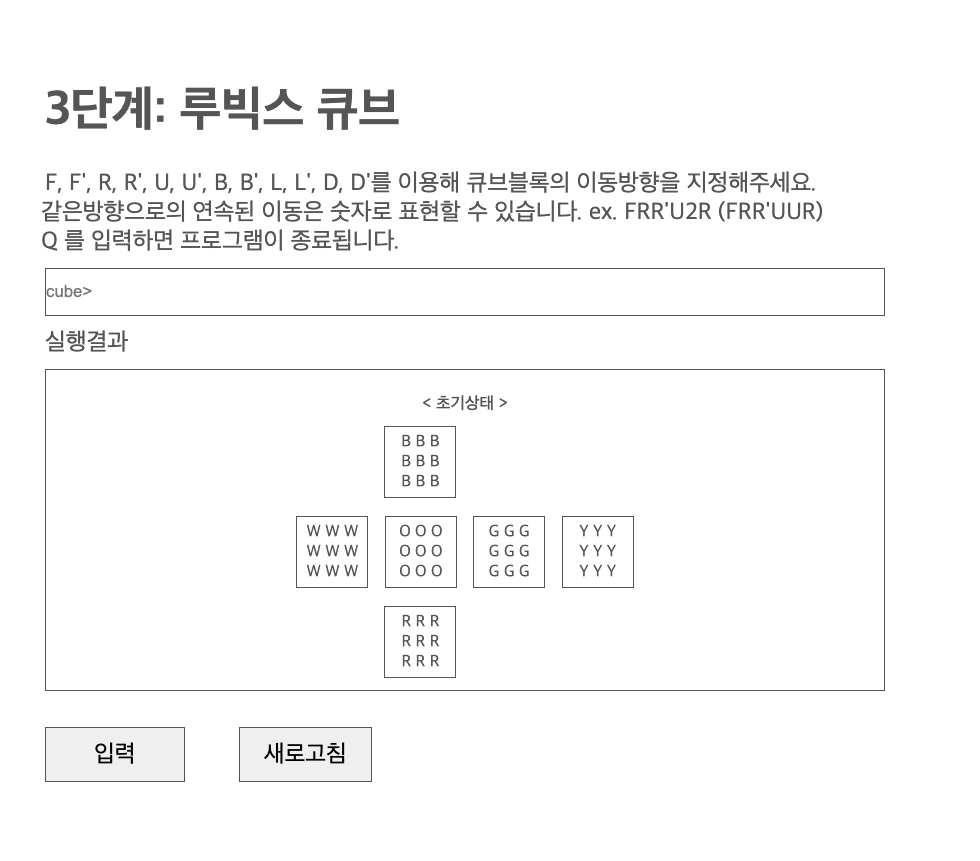
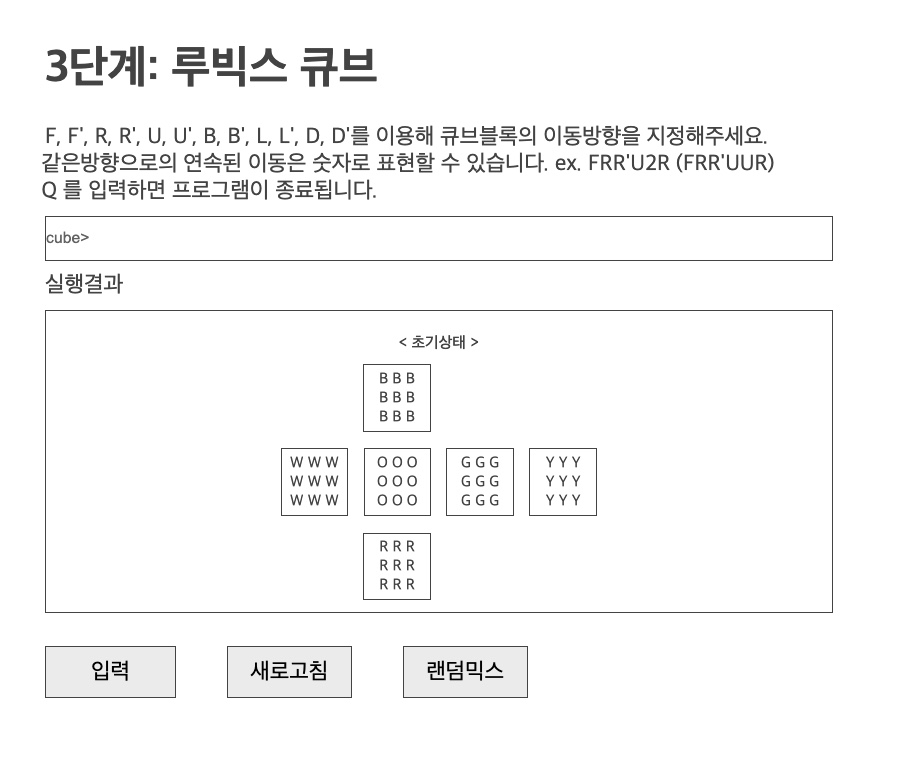
Feature additional action
- Add 'random mix' button.
- Show randomly arranged elements on button click.
- Add description on README.md.

diff --git a/index-3.js b/index-3.js
@@ -2,7 +2,7 @@
 
 *추가구현*
 [O] 프로그램 종료 시 경과 시간 출력
-큐브의 무작위 섞기 기능
+[O] 큐브의 무작위 섞기 기능
 모든 면을 맞추면 축하 메시지와 함께 프로그램을 자동 종료
 */
 
@@ -10,8 +10,10 @@
 class Data {
     constructor(){
 
+        this.origin_arr;
         this.triple_arr = [];
         this.keys = []; //["U", "L", "F", "R", "B", "D"]
+        this.randomKeys = ["U", "L", "F", "R", "B", "D", "U'", "L'", "F'", "R'", "B'", "D'"];
         this.playingTime = 0;
         this.cube = {
             "U": Array(3).fill(0).map(el => Array(3).fill("B")),
@@ -37,6 +39,21 @@ class Data {
         this.keys.forEach(key => {
             this.triple_arr.push(this.cube[key]);
         })
+        //시작 상태의 원본배열 복사해두기
+        this.origin_arr = JSON.parse(JSON.stringify(this.triple_arr));
+    }
+
+    makeRandomArr(){//0에서 11사이의 랜덤 숫자를 받아서 인덱스로 처리(랜덤믹스에 사용)
+        const keysArr = [];
+
+        for (let i = 0; i < 5; i++){
+            keysArr.push(this.randomKeys[this.getRandomNum(0, 11)]);
+        }
+        return keysArr;
+    }
+
+    getRandomNum (min, max) {
+        return Math.floor(Math.random() * (max - min + 1)) + min;
     }
 
     //(회전을 위한)임시 배열 만들기
@@ -115,7 +132,6 @@ class Data {
 //-------------------------------------------- Rotation클래스의 역할: 큐브의 회전과 엘리먼트의 이동 ---------------------------------------------------------
 class Rotation {
 
-    //임시배열들을 오른쪽으로 밀기
     pushElementToRight(arr){
         const poppedElement = arr.pop();
         arr.unshift(poppedElement);
@@ -128,7 +144,6 @@ class Rotation {
         return arr;
     }
 
-    //시계방향으로 90도 회전
     turnSideClockwise(side){
         for (let i = 0; i < side.length; i++) {
             for (let j = 0; j < i; j++) {
@@ -139,7 +154,6 @@ class Rotation {
         return side;
     }
 
-    //시계반대방향으로 90도 회전
     turnSideCounterClockwise(side){
         side.forEach((row) => row.reverse());
         for (let i = 0; i < side.length; i++) {
@@ -198,7 +212,7 @@ class Visual {
             </div>
             <div id="D" class="box">${this.makeSquareShapeTemplate(trpleArr[5])}</div>`;
         }
-        this.renderTemplate(template);
+        return template;
     }
 
 
@@ -238,10 +252,13 @@ class Operator {
     }
 
     addEvent(){
-        const enterButton = document.querySelector(".step3-answer-button");
-        const refreshBtn = document.querySelector(".step3-refresh");
+        const enterButton = this.visual._(".step3-answer-button");
+        const refreshBtn = this.visual._(".step3-refresh");
+        const mixButton = this.visual._(".step3-mix");
+
         enterButton.addEventListener("click", this.executeClickEvent.bind(this));
         refreshBtn.addEventListener("click", this.reload);
+        mixButton.addEventListener("click", this.mixArray.bind(this));
     }
 
     executeClickEvent(){
@@ -249,14 +266,16 @@ class Operator {
         const convertedString = this.data.breakdownInputString(this.visual.readInputData());
         convertedString.forEach(type => {
             const arrIdx = this.data.orderType[type[0]];
+            let template;
             if (type === "Q") {
                 this.visual.makeChildDiv(type, this.data.triple_arr, this.data.convertPlayingTimeToString());
                 return;
             }  else if (type[1] === "'") {
-                this.rotateCounterClockwise(arrIdx, type);
+                template = this.rotateCounterClockwise(arrIdx, type);
+                this.visual.renderTemplate(template);
             } else {
-                this.rotateClockwise(arrIdx, type);
-
+                template = this.rotateClockwise(arrIdx, type);
+                this.visual.renderTemplate(template);
             }
         })
     }
@@ -270,7 +289,7 @@ class Operator {
         }
         this.data.reassignEl(arrIdx, tempArr);
         this.rotate.turnSideClockwise(this.data.triple_arr[triArrIdx]);
-        this.visual.makeChildDiv(type, this.data.triple_arr);
+        return this.visual.makeChildDiv(type, this.data.triple_arr);
     }
 
     rotateCounterClockwise(arrIdx, type){
@@ -282,7 +301,20 @@ class Operator {
         }
         this.data.reassignEl(arrIdx, tempArr);
         this.rotate.turnSideCounterClockwise(this.data.triple_arr[triArrIdx]);
-        this.visual.makeChildDiv(type, this.data.triple_arr);
+        return this.visual.makeChildDiv(type, this.data.triple_arr);
+    }
+
+    mixArray(){
+        const randomKeyArr = this.data.makeRandomArr();
+        randomKeyArr.forEach(el => {
+            const arrIdx = this.data.orderType[el[0]];
+            if (el[1] === "'") {
+                this.rotateCounterClockwise(arrIdx, el);
+            } else {
+                this.rotateClockwise(arrIdx, el);
+            }
+        })
+        this.visual.renderCube(this.data.cube);
     }
 
     getIndexOfType(type){

diff --git a/index.html b/index.html
@@ -24,7 +24,7 @@
         <br>
         <form class="input_form2" onsubmit="return false">
             <label>U, U', R, R', L, L', B, B' 를 이용해  변경하고자 하는 큐브의 방향을 지정해주세요. <br>
-            &nbsp;&nbsp;&nbsp;&nbsp;&nbsp;&nbsp;&nbsp;Q 를 입력하면 프로그램이 종료됩니다. (연속해서 지정가능) ex. UUR<br>
+            &emsp;&emsp;Q 를 입력하면 프로그램이 종료됩니다. (연속해서 지정가능) ex. UUR<br>
             <input id="step2-input" class="word" placeholder="cube>"></label><br>
             <label>실행결과<div class="answer" id="step-2-result"></div></label>
             <button class="step2-answer-button">입력</button>
@@ -36,8 +36,8 @@
         <br>
         <form class="input_form3" onsubmit="return false">
             <label>F, F', R, R', U, U', B, B', L, L', D, D'를 이용해 큐브블록의 이동방향을 지정해주세요. <br>
-            &nbsp;&nbsp;&nbsp;&nbsp;&nbsp;&nbsp;&nbsp;같은방향으로의 연속된 이동은 숫자로 표현할 수 있습니다. ex. FRR'U2R (FRR'UUR)<br>
-            &nbsp;&nbsp;&nbsp;&nbsp;&nbsp;&nbsp;&nbsp;Q 를 입력하면 프로그램이 종료됩니다.<br>
+            &emsp;&emsp;같은방향으로의 연속된 이동은 숫자로 표현할 수 있습니다. ex. FRR'U2R (FRR'UUR)<br>
+            &emsp;&emsp;Q 를 입력하면 프로그램이 종료됩니다.<br>
             <input id="step3-input" class="word" placeholder="cube>"></label><br>
             <label>실행결과<div class="answer" id="step-3-result">
                 <div class="starting-message">< 초기상태 ></div>
@@ -52,6 +52,7 @@
             </div></label>
             <button class="step3-answer-button">입력</button>
             <button class="step3-refresh">새로고침</button>
+            <button class="step3-mix">랜덤믹스</button>
         </form>
     </section>
     <script src="index.js"></script>

diff --git a/index.css b/index.css
@@ -157,3 +157,11 @@ input {
   margin: 1rem 2rem;
   font-size: 1rem;
 }
+
+.step3-mix {
+  border: 1px solid #555;
+  padding: 0.5rem 1rem;
+  margin: 1rem 2rem;
+  font-size: 1rem;
+  cursor: pointer;
+}

diff --git a/README.md b/README.md
@@ -90,6 +90,11 @@
 10. 5-9번에 해당하는 과정을 매 회전마다 반복하며 결과를 출력한다.<br>
 11. `Q`입력 시 조작횟수, 경과시간, 종료메세지를 반환하며 프로그램을 종료시킨다.
 
+- 추가기능:<br>
+
+* `Q`입력 시, 첫 이동방향이 입력된 순간부터 `Q`가 입력된 순간까지의 시간을 분,초 단위로 반환한다.<br>
+* `랜덤믹스`버튼 클릭 시, 큐브의 요소들을 랜덤하게 배치하여 보여준다.<br>
+
 ## 시작화면
 
 ![시작화면](./image/step3-1.png)
@@ -103,6 +108,6 @@
 
 ![종료화면](./image/step3-4.png)
 <br>
-(중간과정 생략)
+&nbsp;&nbsp;&nbsp;&nbsp;&nbsp;(중간과정 생략)
 <br>
 ![종료화면](./image/step3-5.png)
